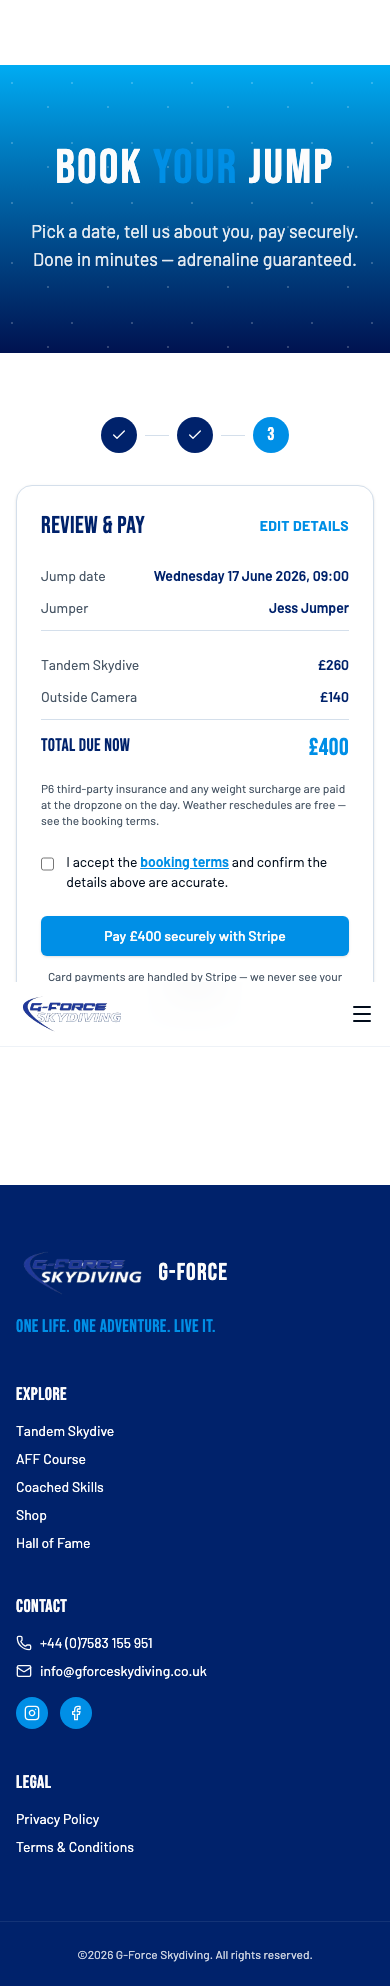
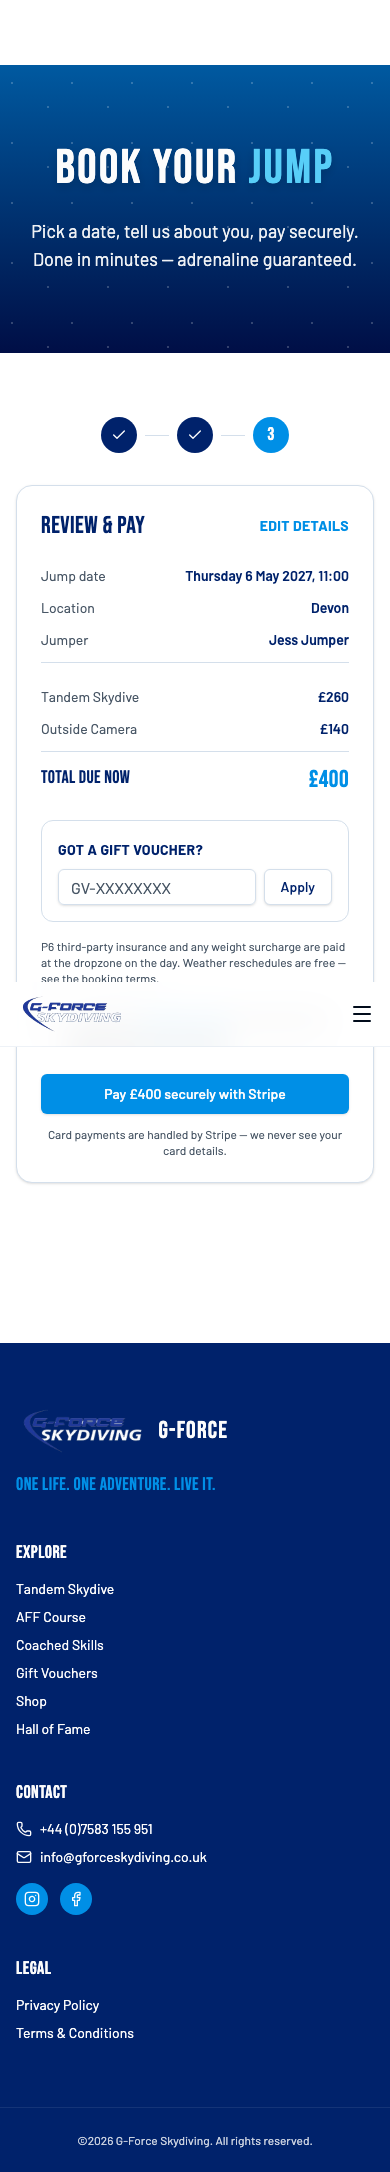
chore: ripple check, theme rebuild and domain-language docs for dates/locations
- Walked every date-touching flow: tandem booking (mobile, no console
  errors), AFF booking surfaces, authenticated admin calendar (June +
  July screenshots) — which caught missing purple/sky chip utilities
  before the panel theme rebuild
- Course reminders verified keying off the renamed start_date; the
  abandoned-checkout sweep is date-shape independent (suite green)
- CLAUDE.md and SETUP.md speak the new domain language (TandemDate,
  CourseDate ranges, Locations, DateClash); DECISIONS.md records the
  validation-vs-CHECK trade-off and clash-rule scope

diff --git a/DECISIONS.md b/DECISIONS.md
@@ -163,6 +163,18 @@ Running log of judgement calls made during the autonomous CMS/booking build, new
   tandem dates, and lifts every distinct CourseDate location *string* into a
   Location row before the FK becomes required and the string column drops.
   Verified against the seeded development database, not just fresh migrations.
+- **5-day minimum is enforced in validation + a live day count in the form**, not a
+  SQL CHECK — adding a CHECK to an existing SQLite table requires a full table
+  rebuild that Laravel's schema builder doesn't express for this case; the form rule
+  plus tests are the practical guard, documented per the brief's "where practical".
+- **Clash rule scope** — cancelled courses don't block tandem dates; the same day at
+  a *different* location is explicitly allowed (tested). Self-exclusion isn't needed
+  because each direction checks the other table.
+- **Calendar courses render as day-chips spanning the range** (full label on day one,
+  continuation bars after) rather than a true multi-cell spanning element — the
+  month grid is CSS-grid day cells, and per-day chips keep the markup simple while
+  reading clearly as a span. New panel utilities required a theme rebuild (caught by
+  the authenticated Playwright screenshot — chips rendered uncoloured before).
 
 # Round 4
 

diff --git a/CLAUDE.md b/CLAUDE.md
@@ -25,8 +25,13 @@ that manages all site content, enquiries, payments and bookings.
 - **Payments**: admin sends Stripe Checkout links or records bank transfers from an
   enquiry; the signature-verified `/webhooks/stripe` endpoint converts paid enquiries
   into bookings; AFF deposit/balance tracking.
-- **Bookings**: Filament resource, availability slots with capacity, custom month-grid
-  calendar page, reschedule action with customer email.
+- **Bookings**: Filament resource, custom month-grid calendar (tandem dates and
+  spanning AFF courses rendered distinctly, location filter), reschedule action with
+  customer email.
+- **Dates & locations**: `TandemDate` (single-day slot: date/time/capacity) and
+  `CourseDate` (multi-day range, minimum 5 days) are separate models; both belong to
+  a `Location` (first-class table). The two are operationally exclusive per location
+  — `App\Support\DateClash` enforces it in both admin forms, create and edit.
 - **Extras**: gift vouchers (redeemable as payments), editable email templates,
   automated confirmation/reminder emails (`bookings:send-reminders`, scheduled daily),
   dashboard stats, activity log on bookings/payments, customers deduped by email.

diff --git a/SETUP.md b/SETUP.md
@@ -118,7 +118,7 @@ php artisan courses:send-reminders     # manual course-reminder run
   group): per-page settings screens plus Testimonials, Hall of Fame, Shop items,
   Gallery and Instructors resources.
 - **Sales** — “Bookings & sales” group: Enquiries inbox (reply threads, payment links,
-  bank transfers), Products & pricing, Bookings + calendar, Availability slots,
+  bank transfers), Products & pricing, Bookings + calendar, Tandem dates, AFF courses, Locations,
   Vouchers, Customers, Email templates.
 - **Email templates** — all customer-facing automated emails are editable records with
   `{{ placeholder }}` variables listed on each template's edit screen.
